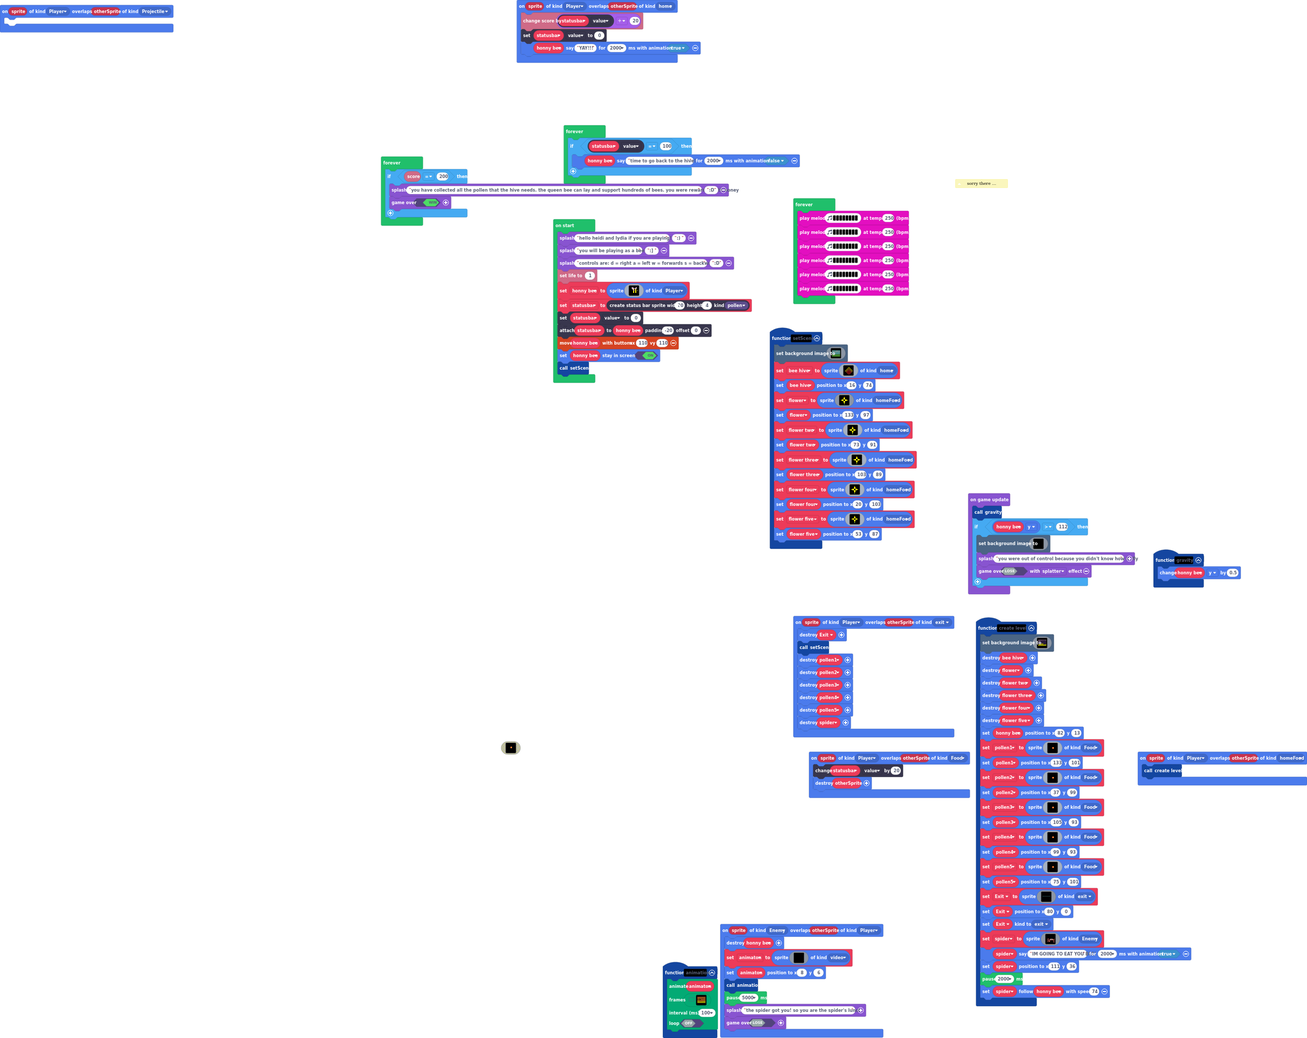
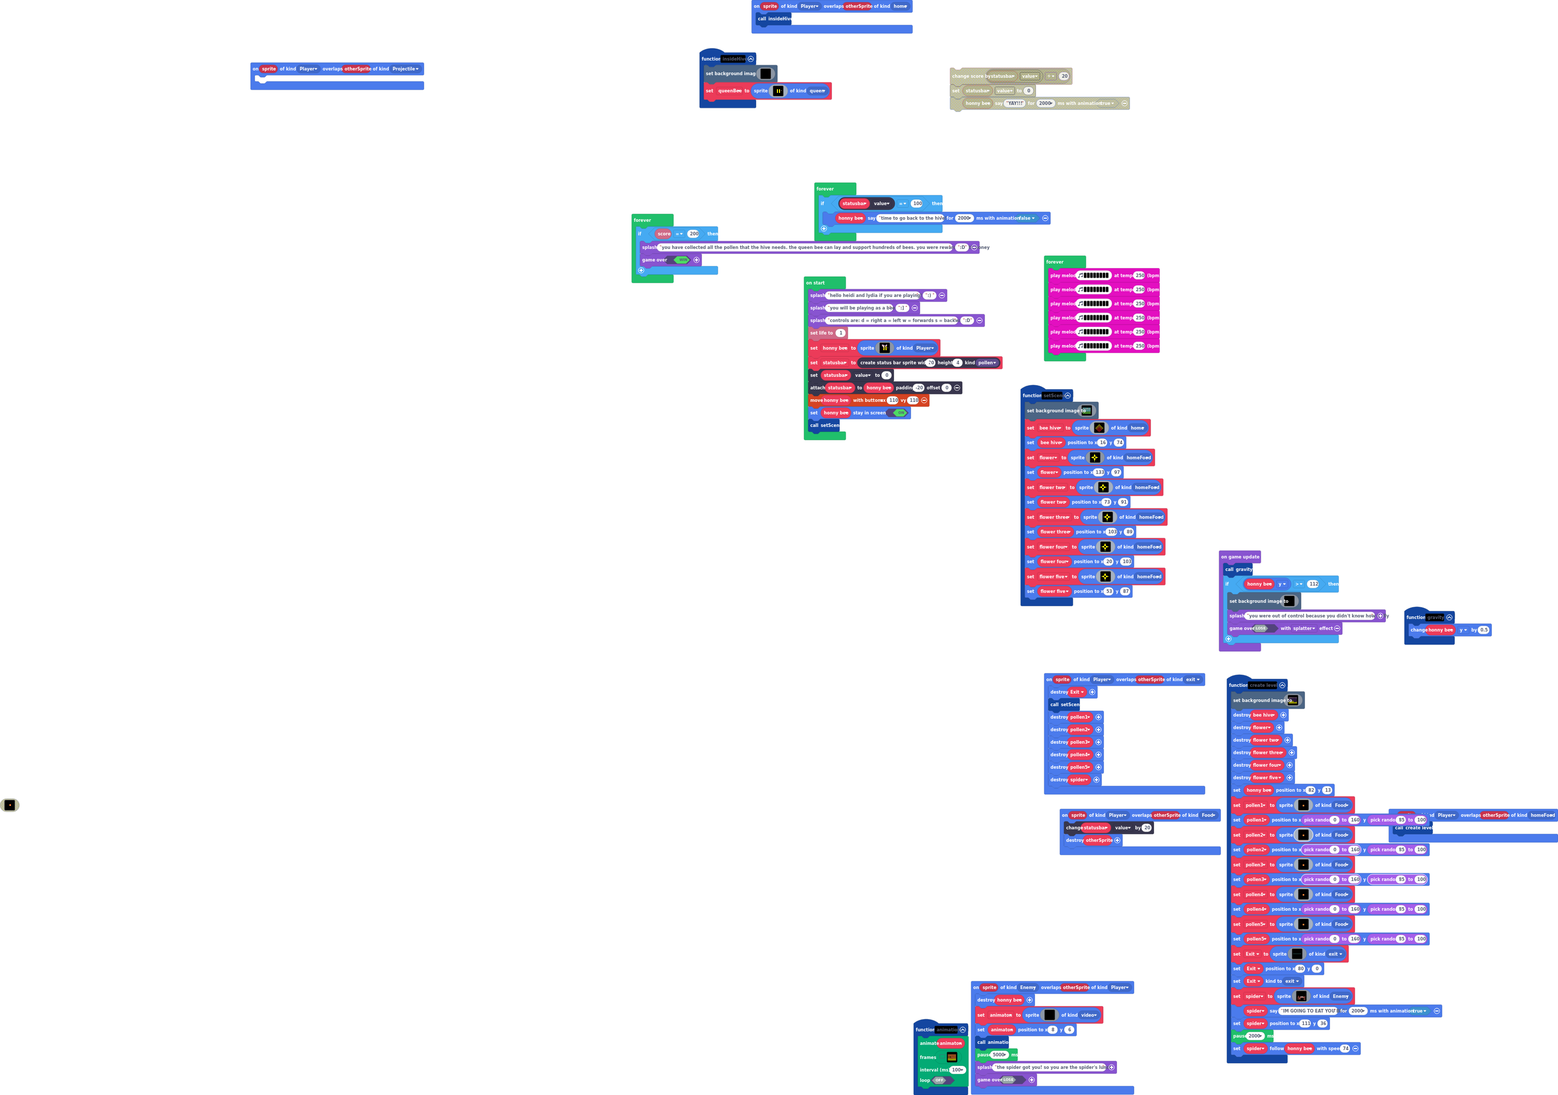
Update main.blocks, main.ts

diff --git a/main.ts b/main.ts
@@ -3,13 +3,11 @@ namespace SpriteKind {
     export const homeFood = SpriteKind.create()
     export const exit = SpriteKind.create()
     export const video = SpriteKind.create()
+    export const queen = SpriteKind.create()
 }
 namespace StatusBarKind {
     export const pollen = StatusBarKind.create()
 }
-/**
- * sorry there is a glitch in the music
- */
 function create_level () {
     scene.setBackgroundImage(img`
         bbbbbbbbbbbbbbbbbbbbbbbbbbbbbbbbbbbbbbbbbbbbbbbbbbbbbbbbbbbbbbbbbbbbbbbbbbbbbbbbbbbbbbbbbbbbbbbbbbbbbbbbbbbbbbbbbbbbbbbbbbbbbbbbbbbbbbbbbbbbbbbbbbbbbbbbbbbbbbbb
@@ -158,7 +156,7 @@ function create_level () {
         . . . . . . . . . . . . . . . . 
         . . . . . . . . . . . . . . . . 
         `, SpriteKind.Food)
-    pollen1.setPosition(133, 101)
+    pollen1.setPosition(randint(0, 160), randint(85, 100))
     pollen2 = sprites.create(img`
         . . . . . . . . . . . . . . . . 
         . . . . . . . . . . . . . . . . 
@@ -177,7 +175,7 @@ function create_level () {
         . . . . . . . . . . . . . . . . 
         . . . . . . . . . . . . . . . . 
         `, SpriteKind.Food)
-    pollen2.setPosition(37, 99)
+    pollen2.setPosition(randint(0, 160), randint(85, 100))
     pollen3 = sprites.create(img`
         . . . . . . . . . . . . . . . . 
         . . . . . . . . . . . . . . . . 
@@ -196,7 +194,7 @@ function create_level () {
         . . . . . . . . . . . . . . . . 
         . . . . . . . . . . . . . . . . 
         `, SpriteKind.Food)
-    pollen3.setPosition(105, 93)
+    pollen3.setPosition(randint(0, 160), randint(85, 100))
     pollen4 = sprites.create(img`
         . . . . . . . . . . . . . . . . 
         . . . . . . . . . . . . . . . . 
@@ -215,7 +213,7 @@ function create_level () {
         . . . . . . . . . . . . . . . . 
         . . . . . . . . . . . . . . . . 
         `, SpriteKind.Food)
-    pollen4.setPosition(99, 93)
+    pollen4.setPosition(randint(0, 160), randint(85, 100))
     pollen5 = sprites.create(img`
         . . . . . . . . . . . . . . . . 
         . . . . . . . . . . . . . . . . 
@@ -234,7 +232,7 @@ function create_level () {
         . . . . . . . . . . . . . . . . 
         . . . . . . . . . . . . . . . . 
         `, SpriteKind.Food)
-    pollen5.setPosition(75, 101)
+    pollen5.setPosition(randint(0, 160), randint(85, 100))
     Exit = sprites.create(img`
         9999999999999999999999999999999999999999999999999999999999999999999999999999999999999999999999999999999999999999999999999999999999999999999999999999999999999999
         9999999999999999999999999999999999999999999999999999999999999999999999999999999999999999999999999999999999999999999999999999999999999999999999999999999999999999
@@ -1490,6 +1488,148 @@ function gravity () {
 sprites.onOverlap(SpriteKind.Player, SpriteKind.homeFood, function (sprite, otherSprite) {
     create_level()
 })
+function insideHive () {
+    scene.setBackgroundImage(img`
+        4..............................................................................................................................................................4
+        4..............................................................................................................................................................4
+        4..............................................................................................................................................................4
+        4..............................................................................................................................................................4
+        4..............................................................................................................................................................4
+        4..............................................................................................................................................................4
+        4..............................................................................................................................................................4
+        4..............................................................................................................................................................4
+        4..............................................................................................................................................................4
+        4..............................................................................................................................................................4
+        4..............................................................................................................................................................4
+        4..............................................................................................................................................................4
+        4..............................................................................................................................................................4
+        4..............................................................................................................................................................4
+        4..............................................................................................................................................................4
+        4..............................................................................................................................................................4
+        4..............................................................................................................................................................4
+        4..............................................................................................................................................................4
+        4..............................................................................................................................................................4
+        4..............................................................................................................................................................4
+        4..............................................................................................................................................................4
+        4..............................................................................................................................................................4
+        4..............................................................................................................................................................4
+        4..............................................................................................................................................................4
+        4..............................................................................................................................................................4
+        4..............................................................................................................................................................4
+        4..............................................................................................................................................................4
+        4..............................................................................................................................................................4
+        4..............................................................................................................................................................4
+        4..............................................................................................................................................................4
+        4..............................................................................................................................................................4
+        4..............................................................................................................................................................4
+        4..............................................................................................................................................................4
+        4..............................................................................................................................................................4
+        4..............................................................................................................................................................4
+        4..............................................................................................................................................................4
+        4..............................................................................................................................................................4
+        4..............................................................................................................................................................4
+        4..............................................................................................................................................................4
+        4..............................................................................................................................................................4
+        4..............................................................................................................................................................4
+        4..............................................................................................................................................................4
+        4..............................................................................................................................................................4
+        4..............................................................................................................................................................4
+        4..............................................................................................................................................................4
+        4..............................................................................................................................................................4
+        4..............................................................................................................................................................4
+        4..............................................................................................................................................................4
+        4..............................................................................................................................................................4
+        4..............................................................................................................................................................4
+        4..............................................................................................................................................................4
+        4..............................................................................................................................................................4
+        4..............................................................................................................................................................4
+        4..............................................................................................................................................................4
+        4..............................................................................................................................................................4
+        4..............................................................................................................................................................4
+        4..............................................................................................................................................................4
+        4..............................................................................................................................................................4
+        4..............................................................................................................................................................4
+        4..............................................................................................................................................................4
+        4..............................................................................................................................................................4
+        4..............................................................................................................................................................4
+        4..............................................................................................................................................................4
+        4..............................................................................................................................................................4
+        4..............................................................................................................................................................4
+        4..............................................................................................................................................................4
+        4..............................................................................................................................................................4
+        4..............................................................................................................................................................4
+        4..............................................................................................................................................................4
+        4..............................................................................................................................................................4
+        4..............................................................................................................................................................4
+        4..............................................................................................................................................................4
+        4..............................................................................................................................................................4
+        4..............................................................................................................................................................4
+        4..............................................................................................................................................................4
+        4..............................................................................................................................................................4
+        4..............................................................................................................................................................4
+        4..............................................................................................................................................................4
+        4..............................................................................................................................................................4
+        4..............................................................................................................................................................4
+        4..............................................................................................................................................................4
+        4..............................................................................................................................................................4
+        4..............................................................................................................................................................4
+        4..............................................................................................................................................................4
+        4..............................................................................................................................................................4
+        4..............................................................................................................................................................4
+        4..............................................................................................................................................................4
+        4..............................................................................................................................................................4
+        4..............................................................................................................................................................4
+        4..............................................................................................................................................................4
+        4..............................................................................................................................................................4
+        4..............................................................................................................................................................4
+        4..............................................................................................................................................................4
+        4..............................................................................................................................................................4
+        4..............................................................................................................................................................4
+        4..............................................................................................................................................................4
+        4..............................................................................................................................................................4
+        4..............................................................................................................................................................4
+        4..............................................................................................................................................................4
+        4..............................................................................................................................................................4
+        4..............................................................................................................................................................4
+        4..............................................................................................................................................................4
+        4..............................................................................................................................................................4
+        4..............................................................................................................................................................4
+        4..............................................................................................................................................................4
+        4..............................................................................................................................................................4
+        4..............................................................................................................................................................4
+        4..............................................................................................................................................................4
+        4..............................................................................................................................................................4
+        4..............................................................................................................................................................4
+        4..............................................................................................................................................................4
+        4..............................................................................................................................................................4
+        4..............................................................................................................................................................4
+        4..............................................................................................................................................................4
+        4..............................................................................................................................................................4
+        4..............................................................................................................................................................4
+        4..............................................................................................................................................................4
+        4..............................................................................................................................................................4
+        4..............................................................................................................................................................4
+        4...............................................................................................................................................................
+        `)
+    queenBee = sprites.create(img`
+        . . . . . . . . . . . . . . . . 
+        . . . . . . . . . . . . . . . . 
+        . . . . . . . . . . . . . . . . 
+        . . . . . . . . . . . . . . . . 
+        . . . . . . . . f f . . . . . . 
+        . . . . . . 5 5 f f 5 5 . . . . 
+        . . . . . f 5 5 f f 5 5 f f f f 
+        . . . f f f 5 5 f f 5 5 f f d f 
+        f f f f f f 5 5 f f 5 5 f f f f 
+        . . . f f f 5 5 f f 5 5 f f f f 
+        . . . . . f 5 5 f f 5 5 f f f f 
+        . . . . . . 5 5 f f 5 5 . . . . 
+        . . . . . . . . f f . . . . . . 
+        . . . . . . . . . . . . . . . . 
+        . . . . . . . . . . . . . . . . 
+        . . . . . . . . . . . . . . . . 
+        `, SpriteKind.queen)
+}
 sprites.onOverlap(SpriteKind.Player, SpriteKind.Projectile, function (sprite, otherSprite) {
 	
 })
@@ -1762,9 +1902,7 @@ function setScene () {
     flower_five.setPosition(53, 87)
 }
 sprites.onOverlap(SpriteKind.Player, SpriteKind.home, function (sprite, otherSprite) {
-    info.changeScoreBy(statusbar.value / 20)
-    statusbar.value = 0
-    honny_bee.sayText("YAY!!!", 2000, true)
+    insideHive()
 })
 sprites.onOverlap(SpriteKind.Player, SpriteKind.Food, function (sprite, otherSprite) {
     statusbar.value += 20
@@ -1780,6 +1918,7 @@ sprites.onOverlap(SpriteKind.Player, SpriteKind.exit, function (sprite, otherSpr
     pollen5.destroy()
     spider.destroy()
 })
+let queenBee: Sprite = null
 let animaton: Sprite = null
 let spider: Sprite = null
 let Exit: Sprite = null
